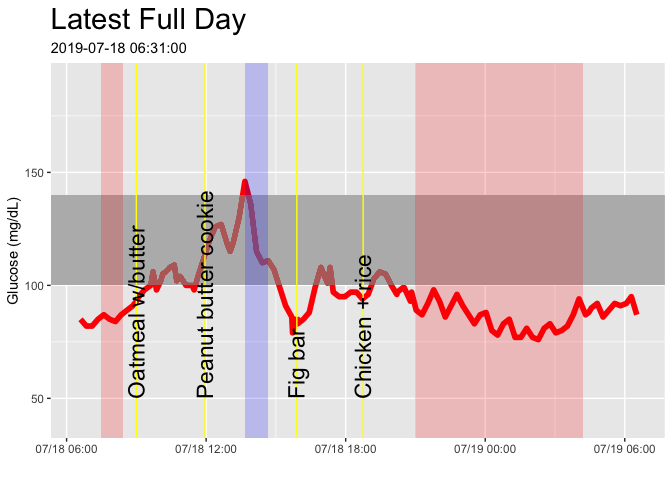
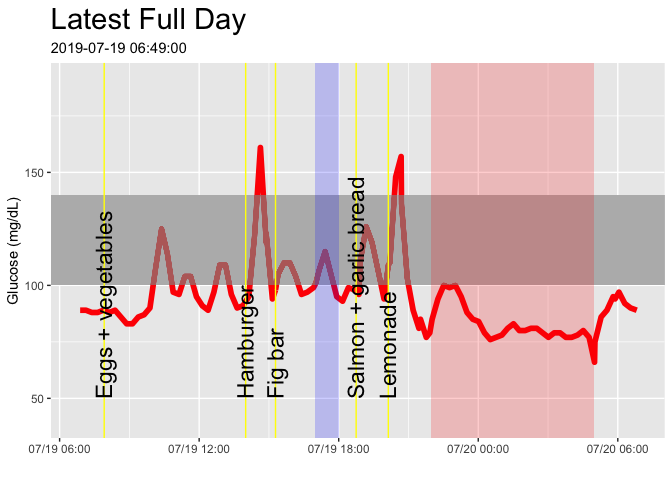
updated data for 7/20 am

Changed region(s): [[0.0312, 0.0938, 0.9688, 0.9688], [0.2188, 0.0938, 0.25, 0.125]]

diff --git a/README.md b/README.md
@@ -1,7 +1,7 @@
 Continuous Glucose Monitoring with Freestyle Libre
 ================
 Richard Sprague
-2019-07-19
+2019-07-20
 
 See [Continous Glucose Monitoring: Start
 Here](http://richardsprague.com/notes/continuous-glucose-monitoring/)
@@ -164,7 +164,7 @@ glucose %>% filter(apply(sapply(glucose$time,
     ## ------------------------------------------------------------------------- 
     ## Describe . (tbl_df, tbl, data.frame):
     ## 
-    ## data.frame:  2179 obs. of  1 variables
+    ## data.frame:  2207 obs. of  1 variables
     ## 
     ##   Nr  ColName  Class    NAs  Levels
     ##   1   value    numeric  .          
@@ -174,14 +174,14 @@ glucose %>% filter(apply(sapply(glucose$time,
     ## Glucose Values While Sleeping
     ## 
     ##   length       n    NAs  unique     0s   mean  meanCI
-    ##    2'179   2'179      0      91      0  78.89   78.28
-    ##           100.0%   0.0%           0.0%          79.50
+    ##    2'207   2'207      0      91      0  78.94   78.34
+    ##           100.0%   0.0%           0.0%          79.55
     ##                                                      
     ##      .05     .10    .25  median    .75    .90     .95
     ##    53.00   61.00  72.00   79.00  87.00  97.00  103.00
     ##                                                      
     ##    range      sd  vcoef     mad    IQR   skew    kurt
-    ##   102.00   14.52   0.18   10.38  15.00   0.02    1.10
+    ##   102.00   14.46   0.18   10.38  15.00   0.02    1.13
     ##                                                      
     ## lowest : 40.0 (31), 41.0 (5), 42.0 (4), 43.0 (3), 44.0 (3)
     ## highest: 126.0 (2), 129.0, 131.0 (2), 132.0 (2), 142.0
@@ -199,24 +199,24 @@ glucose %>% filter(apply(sapply(glucose$time,
     ## ------------------------------------------------------------------------- 
     ## Describe . (tbl_df, tbl, data.frame):
     ## 
-    ## data.frame:  8569 obs. of  1 variables
+    ## data.frame:  8680 obs. of  1 variables
     ## 
     ##   Nr  ColName  Class    NAs         Levels
-    ##   1   value    numeric  103 (1.2%)        
+    ##   1   value    numeric  104 (1.2%)        
     ## 
     ## 
     ## ------------------------------------------------------------------------- 
     ## Glucose Values While Awake
     ## 
     ##   length      n    NAs  unique      0s    mean  meanCI
-    ##    8'569  8'466    103     135       0   89.85   89.43
-    ##           98.8%   1.2%            0.0%           90.26
+    ##    8'680  8'576    104     135       0   89.92   89.51
+    ##           98.8%   1.2%            0.0%           90.33
     ##                                                       
     ##      .05    .10    .25  median     .75     .90     .95
-    ##    62.00  69.00  77.00   87.00  100.00  116.00  127.00
+    ##    62.00  69.00  78.00   87.00  100.00  116.00  127.00
     ##                                                       
     ##    range     sd  vcoef     mad     IQR    skew    kurt
-    ##   151.00  19.49   0.22   16.31   23.00    0.77    1.44
+    ##   151.00  19.47   0.22   16.31   22.00    0.77    1.45
     ##                                                       
     ## lowest : 40.0 (33), 41.0 (5), 42.0 (5), 43.0 (3), 44.0 (7)
     ## highest: 181.0, 182.0 (3), 187.0, 188.0, 191.0
@@ -232,24 +232,24 @@ glucose %>% filter(apply(sapply(glucose$time,
     ## ------------------------------------------------------------------------- 
     ## Describe . (tbl_df, tbl, data.frame):
     ## 
-    ## data.frame:  58 obs. of  1 variables
+    ## data.frame:  63 obs. of  1 variables
     ## 
     ##   Nr  ColName  Class    NAs       Levels
-    ##   1   value    numeric  1 (1.7%)        
+    ##   1   value    numeric  1 (1.6%)        
     ## 
     ## 
     ## ------------------------------------------------------------------------- 
     ## Glucose Values While Exercising
     ## 
     ##   length      n    NAs  unique      0s    mean  meanCI
-    ##       58     57      1      43       0   97.72   92.92
-    ##           98.3%   1.7%            0.0%          102.52
+    ##       63     62      1      45       0   98.27   93.82
+    ##           98.4%   1.6%            0.0%          102.73
     ##                                                       
     ##      .05    .10    .25  median     .75     .90     .95
-    ##    70.80  74.20  84.00  100.00  109.00  117.60  125.60
+    ##    71.05  75.20  85.50  100.00  109.00  115.90  122.95
     ##                                                       
     ##    range     sd  vcoef     mad     IQR    skew    kurt
-    ##    79.00  18.10   0.19   17.79   25.00    0.46   -0.01
+    ##    79.00  17.55   0.18   17.05   23.50    0.39    0.07
     ##                                                       
     ## lowest : 67.0, 69.0, 70.0, 71.0, 72.0
     ## highest: 122.0, 123.0, 136.0, 144.0, 146.0
